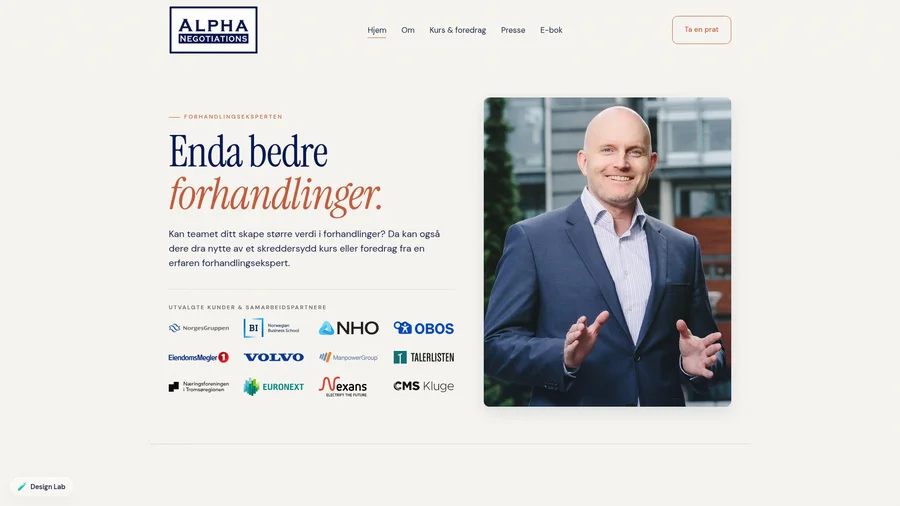
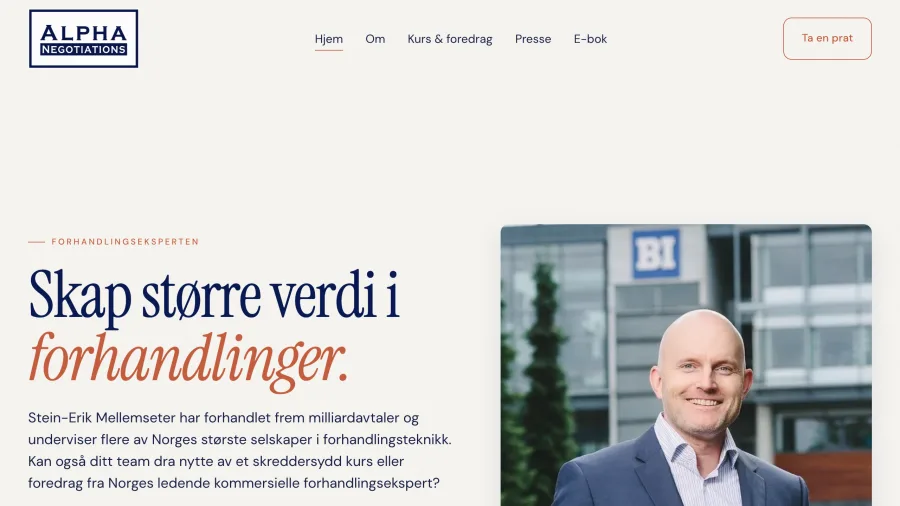
portefølje: Alpha Negotiations tilbake som ett av de fire på forsiden
Sto ute siden 21. august fordi siden svarte HTTP 500 og footeren
krediterte et annet byrå. Begge var feil ved ny måling 25. august: siden
svarer 200, og footeren peker nå til oppskalert.no.

Bilder tatt på nytt i 1x og 2x, det gamle skjermbildet hadde en Design
Lab-knapp brent inn fra en tidligere demo-versjon. Til er -71%, forsiden
er 3319 px høy og fyller ikke den vanlige 5000 px-fangsten, samme
prinsipp som Melanie Dahl.

Byttet inn for Samtaleverkstedet i toppfire-utvalget på forsiden.
Samtaleverkstedet er fortsatt med lenger ned i porteføljen.

diff --git a/src/lib/site.js b/src/lib/site.js
@@ -567,12 +567,14 @@ export const landingsSporsmal = {
    0,75 / 3,906 = 19,2 % av bildet av gangen. Endres fangsthøyden eller
    vindusformatet, må `til` regnes om for alle.
 
-   alphanegotiations.com og irmelindrake.no er ute av visningslisten.
-   Alpha svarte HTTP 500 da fangstene ble tatt, og footeren der krediterer
-   et annet byrå. Irmelin er en kollegas prosjekt uten vår tilgang. Begge
-   står i CLAUDE.md som utenfor rekkevidde. De ligger igjen nederst uten
-   `full`, så de fortsatt finnes for eventuelle lenker, men de vises ikke
-   i rammene på forsiden. */
+   irmelindrake.no er ute av visningslisten. Det er en kollegas prosjekt
+   uten vår tilgang, står i CLAUDE.md som utenfor rekkevidde. Den ligger
+   igjen nederst uten `full`, så den fortsatt finnes for eventuelle
+   lenker, men vises ikke i rammene på forsiden.
+
+   alphanegotiations.com var ute av samme grunn (HTTP 500, footer som
+   krediterte et annet byrå), men er tilbake fra 25. august 2026: begge
+   feilene var rettet ved ny måling. Se kommentaren ved oppføringen. */
 /* Porteføljebildene finnes i to oppløsninger. Filnavnet er 1x, det samme
    navnet med @2x er dobbelt så bredt. Skjermbildene ble tidligere servert
    i 640 px og vist på 646, altså halv oppløsning på enhver 2x-skjerm, og
@@ -593,6 +595,18 @@ export const prosjekter = [
      gangen i stedet for 19 %, og rullelengden må regnes ut fra det.
      Kopierer man -79% hit, ruller kortet langt forbi bunnen av bildet. */
   { img: '/websider/melanie-dahl.webp', slug: 'melanie-dahl', full: '/websider/full/melanie-dahl.webp', til: '-34%', navn: 'Melanie Dahl', bransje: 'Skuespill · mental trening', url: 'https://www.melaniedahl.com/', domene: 'melaniedahl.com' },
+  /* Alpha Negotiations. Satt tilbake 25. august 2026. Sto ute av arrayen
+     siden 21. august fordi siden svarte HTTP 500 og footeren krediterte
+     et annet byrå, se CLAUDE.md. Begge var feil ved ny måling: siden
+     svarer 200, og footeren peker nå til oppskalert.no. Både --til og
+     bildene er tatt på nytt, det gamle skjermbildet hadde en Design
+     Lab-knapp brent inn nede til venstre fra en tidligere demo-versjon.
+     @2x skutt samtidig med samme rådata, se toganger() over.
+
+     Til er -71%, ikke -79% som de fleste andre: forsiden er 3319 px høy,
+     ikke lang nok til å fylle den vanlige 5000 px-fangsten, så bildet er
+     640 x 1660, samme prinsipp som Melanie Dahl over. */
+  { img: '/websider/alpha-negotiations.webp', slug: 'alpha-negotiations', full: '/websider/full/alpha-negotiations.webp', til: '-71%', navn: 'Alpha Negotiations', bransje: 'Forhandling', url: 'https://alphanegotiations.com', domene: 'alphanegotiations.com' },
   { img: '/websider/samtaleverkstedet.webp', slug: 'samtaleverkstedet', full: '/websider/full/samtaleverkstedet.webp', til: '-79%', navn: 'Samtaleverkstedet', bransje: 'Terapi', url: 'https://samtaleverkstedet.no', domene: 'samtaleverkstedet.no' },
   { img: '/websider/steinar-husby.webp', slug: 'steinar-husby', full: '/websider/full/steinar-husby.webp', til: '-81%', navn: 'Steinar Husby', bransje: 'Foredrag', url: 'https://steinarhusby.no', domene: 'steinarhusby.no' },
   { img: '/websider/progressive-diplomacy.webp', slug: 'progressive-diplomacy', full: '/websider/full/progressive-diplomacy.webp', til: '-79%', navn: 'Progressive Diplomacy', bransje: 'Rådgivning', url: 'https://progressivediplomacy.com', domene: 'progressivediplomacy.com' },

diff --git a/src/components/Arbeider.jsx b/src/components/Arbeider.jsx
@@ -21,6 +21,7 @@ const ARBEIDER_TEKST = {
   'woxen-hage': { bransje: 'Hagestell', tittel: 'Hagehjelp i Oslo, bestilt på under ett minutt' },
   'katrin-brubakk': { bransje: 'Psykolog', tittel: 'Foredrag og terapi samlet på én rolig side' },
   'melanie-dahl': { bransje: 'Skuespill · mental trening', tittel: 'To yrker, to innganger, én rolig side' },
+  'alpha-negotiations': { bransje: 'Forhandling', tittel: 'En forhandlingsekspert, forklart på ett kvarter' },
   'samtaleverkstedet': { bransje: 'Terapi', tittel: 'Terapi som tør å være varm i tonen' },
   'steinar-husby': { bransje: 'Foredrag', tittel: 'Én foredragsholder, ett tydelig løfte' },
   'progressive-diplomacy': { bransje: 'Rådgivning', tittel: 'Rådgivning over landegrenser, forklart enkelt' },

diff --git a/CLAUDE.md b/CLAUDE.md
@@ -173,11 +173,14 @@ rekkevidde og skal ikke følges opp videre.
 
 **Kjent gjeld:**
 
-- `alphanegotiations.com` ligger fortsatt i `prosjekter`-arrayen i
-  `src/lib/site.js`, men er fjernet fra de seks prosjektene som faktisk vises
-  på forsiden og på `/arbeid`. Målt 19. august 2026 svarte siden HTTP 500.
-  Footeren der krediterer i tillegg et annet byrå. Den bør fjernes helt fra
-  arrayen også, ikke bare fra visningslisten.
+- `alphanegotiations.com` er tilbake som ett av de fire kortene på forsiden
+  (25. august 2026, byttet inn for Samtaleverkstedet). Sto ute siden
+  21. august fordi siden svarte HTTP 500 og footeren krediterte et annet
+  byrå, men begge var feil ved ny måling: siden svarer 200, og footeren
+  peker nå til oppskalert.no. Bilder tatt på nytt samtidig, det gamle
+  skjermbildet hadde en Design Lab-knapp brent inn fra en tidligere
+  demo-versjon. Har ingen case-side ennå, så kortet lenker rett ut til
+  kundens egen side, samme mønster som Melanie Dahl.
 - Tankestrek finnes i rundt ni kodekommentarer. Ikke i kundevendt tekst.
 - Forsidens H1 er «Nettsiden din er ikke et visittkort. Den avgjør om de
   ringer deg.» Heroen er innholdshøy, ikke skjermhøy: den har ingen
